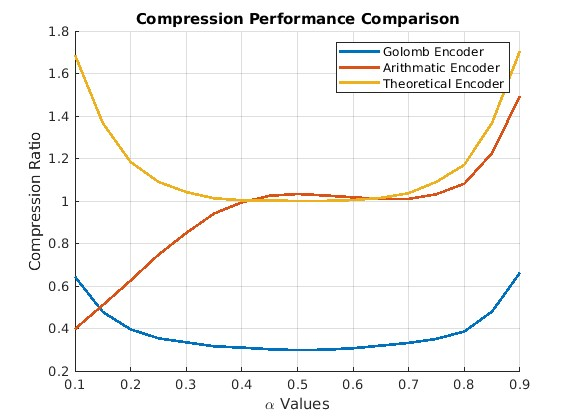
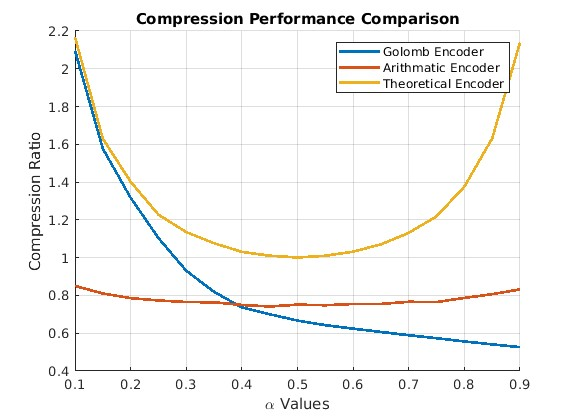
update

diff --git a/markov1_arithmetic_encoder.m b/markov1_arithmetic_encoder.m
@@ -1,62 +1,6 @@
 function encoded_bits = markov1_arithmetic_encoder(input_stream, alpha, N, P)
     
-    % Peudocode
-    
-    % let p0 denote the P-bit integer which is used to represent the probability fX (x = 0):
-    % p0 = ⌊2P fX (x = 0)⌋
-    % when the input stream is generated by Markov1 process. The symbol probability has to be replaced by transition probabilities.
-
     % Initialize C=0, A=2^N, r=-1, b=0
-    % FOR each n=0,1,... DO
-    %     T = A * p0
-    %     IF xn = 1
-    %         C = C + T
-    %         T = bitshift(A,P) - T;
-    %     END
-    %     IF C >= 2^(N+P)
-    %         C = bitand(C, mask)
-    %         % propagate carry
-    %         emit-bit(1)
-    %         IF r>0
-    %             execute r-1 times, emit-bit(0)
-    %             SET r=0
-    %         ELSE
-    %             SET r=-1
-    %         END
-    %     END
-    %     WHILE T < 2^(N+P-1) 
-    %         % renormalize once
-    %         b = b + 1
-    %         T = 2 * T
-    %         C = 2 * C
-    %     IF C >= 2^(N+P)
-    %         C = bitand(C, mask)
-    %         % overflow of C
-    %         IF r<0
-    %             emit-bit(1)
-    %         ELSE
-    %             r = r + 1
-    %         END
-    %     ELSE
-    %         % no overflow of C
-    %         IF r>=0
-    %             emit-bit(0)
-    %             execute r times, emit-bit(1)
-    %         END
-    %         SET r = 0
-    %     END
-    %     END (while)
-    %     SET A = floor(T / 2^P)
-    %     END (for)
-    %     IF r>= 0
-    %     emit-bit(0)
-    %     execute r times, emit-bit(1)
-    %     END
-    %     emit N+P bits of register C
-    %     
-    
-    
-    % Initialization
     C = 0; 
     A = 2^N; 
     r = -1; 
@@ -64,15 +8,15 @@ function encoded_bits = markov1_arithmetic_encoder(input_stream, alpha, N, P)
     beta = alpha; 
     encoded_bits = []; 
     mask = 2^(N+P) - 1; 
-    scaling_factor = 270; 
+    scaling_factor = 100; % a scaling factor is added for plotting purpose
     alpha_scaled = round(alpha * scaling_factor); 
     beta_scaled = round(beta * scaling_factor);
 
     for n = 1:length(input_stream)
-        x_current = input_stream(n); % Get the current bit to be encoded
-       
+        x_current = input_stream(n); 
+        % compute for p0
         if n == 1
-            p0_scaled = alpha;
+            p0_scaled = 0.5;
         else
             if input_stream(n-1) == '0'
                 if x_current == '0' 
@@ -88,16 +32,28 @@ function encoded_bits = markov1_arithmetic_encoder(input_stream, alpha, N, P)
                 end
             end
         end
-    
-        T = A * p0_scaled; % Multiply A by the probability p0
-    
+        % T = A * p0
+        T = A * p0_scaled;
+        % IF xn = 1
+        %     C = C + T
+        %     T = bitshift(A,P) - T;
+        % END
         if x_current == '1' 
             C = C + T; % Increment C by T if current bit is 1
+            % Equivalent to T = 2^P * A - T
+            T = bitshift(A, P) - T;            
         end
-        % Equivalent to T = 2^P * A - T
-        T = bitshift(A, P) - T; 
-        
-        % Check for overflow in register C and adjust if necessary
+        % IF C >= 2^(N+P)
+        %     C = bitand(C, mask)
+        %     % propagate carry
+        %     emit-bit(1)
+        %     IF r>0
+        %         execute r-1 times, emit-bit(0)
+        %         SET r=0
+        %     ELSE
+        %         SET r=-1
+        %     END
+        % END
         if C >= 2^(N+P)
             % Modulo operation to keep N+P bits
             C = bitand(C, mask); 
@@ -110,12 +66,32 @@ function encoded_bits = markov1_arithmetic_encoder(input_stream, alpha, N, P)
                 r = -1;
             end
         end
-    
-        % Renormalization loop to ensure T has enough significant bits
+       % WHILE T < 2^(N+P-1) 
+       %         % renormalize once
+       %         b = b + 1
+       %         T = 2 * T
+       %         C = 2 * C
+       %     IF C >= 2^(N+P)
+       %         C = bitand(C, mask)
+       %         % overflow of C
+       %         IF r<0
+       %             emit-bit(1)
+       %         ELSE
+       %             r = r + 1
+       %         END
+       %     ELSE
+       %         % no overflow of C
+       %         IF r>=0
+       %             emit-bit(0)
+       %             execute r times, emit-bit(1)
+       %         END
+       %         SET r = 0
+       %     END
+       % END
         while T < 2^(N+P-1)
-            T = 2 * T; % Double T
-            C = uint32(C); 
-            C = bitshift(C, 1); % Left shift C to add a zero bit at the end
+            b = b + 1;  
+            T = 2 * T;
+            C = 2 * C; 
             
             % Check for overflow in C after renormalization
             if C >= 2^(N+P)
@@ -134,16 +110,20 @@ function encoded_bits = markov1_arithmetic_encoder(input_stream, alpha, N, P)
                 r = 0; % Reset r
             end
         end
+        % SET A = floor(T / 2^P)
         A = floor(T / 2^P); % Adjust A based on the new T value
+    % END (for)
     end
-    
-    % Finalize encoding by flushing the remaining bits of register C
+    % IF r>= 0
+    %     emit-bit(0)
+    %     execute r times, emit-bit(1)
+    % END
     if r >= 0
         encoded_bits = [encoded_bits, 0]; % Emit a 0 bit
         encoded_bits = [encoded_bits, ones(1, r)]; % Emit r 1s
     end
     
-    % Convert C to binary and append it to the bitstream
-    final_bits = dec2bin(bitand(C, mask), N+P) - '0'; % Convert C to binary with N+P bits
-    encoded_bits = [encoded_bits, final_bits]; % Append final bits to output
+    % emit N+P bits of register C
+    final_bits = dec2bin(bitand(C, mask), N+P) - '0'; 
+    encoded_bits = [encoded_bits, final_bits]; 
 end

diff --git a/calculate_entropy_rate.m b/calculate_entropy_rate.m
@@ -1,19 +1,53 @@
-function [H_rate, all_blocks] = calculate_entropy_rate(source_stream, memory)
-    if memory <= 0
-        error('Memory must be a positive integer');
+function H = calculate_entropy_rate(encoded_stream, m)
+    % Initialize a map to store context counts
+    context_counts = containers.Map('KeyType', 'char', 'ValueType', 'any');
+    
+    % Convert the input stream to char if it is a string
+    if isstring(encoded_stream)
+        encoded_stream = char(encoded_stream);
     end
 
-    all_blocks = unique(mnr2mat(source_stream, memory), 'rows'); 
-    all_blocks_numerical = block2num(all_blocks); 
-    block_probs = histcounts(mnr2mat(source_stream, memory), all_blocks_numerical, 'Normalization', 'probability');
+    % Count occurrences for each context of length m
+    for i = 1:(length(encoded_stream) - m)
+        context = encoded_stream(i:i+m-1);
+        next_symbol = encoded_stream(i+m);
+        
+        % Convert context to char to use as a key
+        context_char = char(context);
+        
+        if ~isKey(context_counts, context_char)
+            context_counts(context_char) = containers.Map('KeyType', 'char', 'ValueType', 'double');
+        end
+        symbol_counts = context_counts(context_char);
+        if isKey(symbol_counts, char(next_symbol))
+            symbol_counts(char(next_symbol)) = symbol_counts(char(next_symbol)) + 1;
+        else
+            symbol_counts(char(next_symbol)) = 1;
+        end
 
-    cond_probs = zeros(size(all_blocks, 1), size(all_blocks, 2));
-    for i = 1:size(all_blocks, 1)
-        block_occurrences = sum(ismember(all_blocks, all_blocks(i, :), 'rows')); 
-        block_indices = find(ismember(all_blocks, all_blocks(i, :), 'rows'));
-        next_symbols = source_stream(memory + block_indices); 
-        cond_probs(i, :) = histcounts(next_symbols, 'Normalization', 'probability');
     end
-
-    H_rate = -sum(block_probs .* sum(cond_probs .* log2(cond_probs), 2)); 
-end 
+    
+    % Initialize total entropy
+    total_entropy = 0;
+    
+    % Calculate conditional entropy for each context
+    context_keys = keys(context_counts);
+    for i = 1:length(context_keys)
+        context = context_keys{i};
+        symbol_counts = context_counts(context);
+        context_total = sum(cell2mat(values(symbol_counts)));
+        context_entropy = 0;
+        
+        symbol_keys = keys(symbol_counts);
+        for j = 1:length(symbol_keys)
+            symbol = symbol_keys{j};
+            count = symbol_counts(symbol);
+            p_symbol_given_context = count / context_total;
+            context_entropy = context_entropy - p_symbol_given_context * log2(p_symbol_given_context);
+        end
+        total_entropy = total_entropy + context_entropy;
+    end
+    
+    % Average the entropy over all contexts
+    H = total_entropy / length(context_keys);
+end

diff --git a/question_4_3.m b/question_4_3.m
@@ -15,14 +15,16 @@ for i = 1:length(alpha_values)
     source_stream_str = generate_markov1(alpha, L); 
     source_stream_num = source_stream_str - '0';  
     % Calculate entropy rate H(x_1|x_0)
-    p0 = alpha;
-    p1 = 1 - p0;
-    H = -p0*log2(p0) - p1*log2(p1);
+    % Calculate estimated terminal probabilities
+    pi0 = sum(source_stream_num == 0) / L;
+    pi1 = 1 - pi0;
+    % calculate entropy rate
+    % H=−π0[αlog(α)+(1−α)log(1−α)]−π1[βlog(β)+(1−β)log(1−β)]
+    H = -pi0*(alpha*log2(alpha) + (1-alpha)*log2(1-alpha))-pi1*(alpha*log2(alpha) + (1-alpha)*log2(1-alpha));
     markov1_entropy(i)=H;
     encoded_stream = markov1_arithmetic_encoder(source_stream_str, alpha, N, P);
-    p0 = sum(encoded_stream == 0) / length(encoded_stream);
-    p1 = 1-p0;
-    H = -p0*log2(p0) - p1*log2(p1);
+    m=10;
+    H=calculate_entropy_rate(encoded_stream,m);
     code_stream_entropy(i) = H;
 end
 
@@ -35,5 +37,5 @@ hold off;
 xlabel('\alpha Values');
 ylabel('Estimated Entropy');
 title('Entropy of Markov-1 Stream vs. Encoded Stream');
-legend('show');
+legend('show', 'Location', 'best');
 grid on; 

diff --git a/question_4_2.m b/question_4_2.m
@@ -14,11 +14,10 @@ for i = 1:length(alpha_values)
     % Generate Markov-1 Data
     source_stream_str = generate_markov1(alpha, L); 
     source_stream_num = source_stream_str - '0';  
-    % Calculate probabilities
-    pi0 = sum(source_stream_num == 0) / L;
-    pi1 = 1 - p0;
-    % H=−π0[αlog(α)+(1−α)log(1−α)]−π1[βlog(β)+(1−β)log(1−β)]
-    H = -pi0*(alpha*log2(alpha) + (1-alpha)*log2(1-alpha))-pi1*(alpha*log2(alpha) + (1-alpha)*log2(1-alpha));
+    % Calculate estimated terminal probabilities
+    p0 = sum(source_stream_num == 0) / L;
+    p1 = 1 - p0;
+    H = -p0*log2(p0) - p1*log2(p1);
     markov1_entropy(i)=H;
     encoded_stream = markov1_arithmetic_encoder(source_stream_str, alpha, N, P);
     p0 = sum(encoded_stream == 0) / length(encoded_stream);
